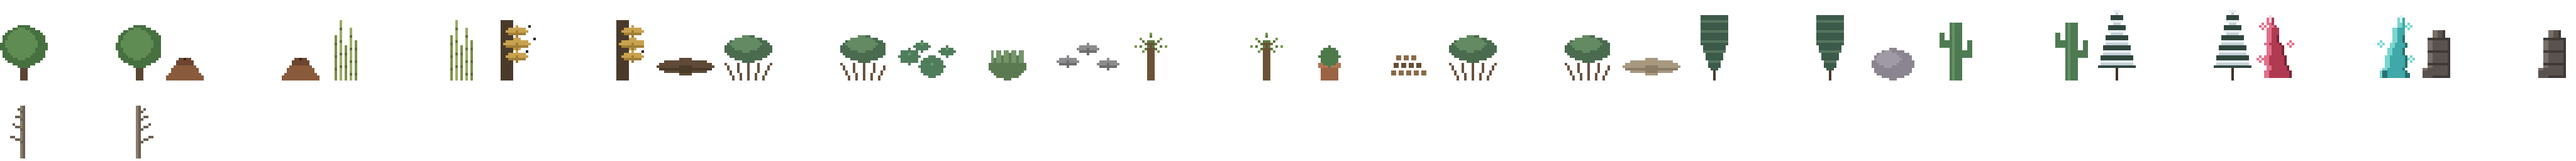
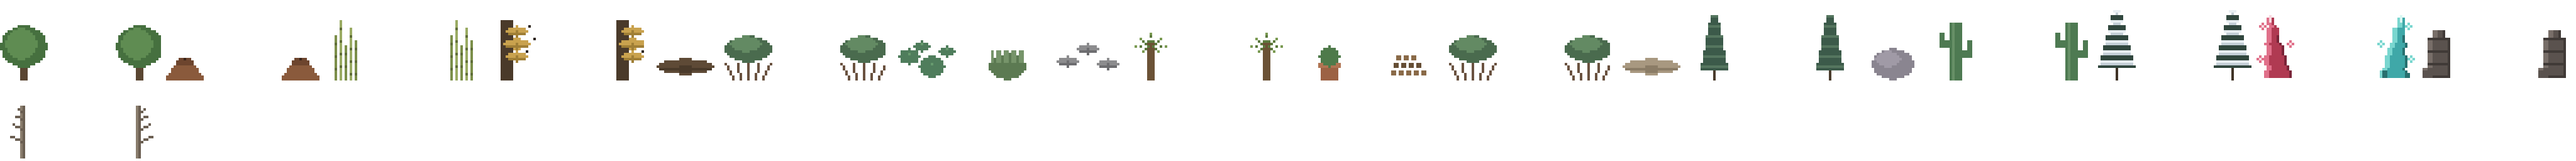
Turn the hill pine the right way up
It has been upside down since it was written. The loop started at the base
with a width of 1 and grew it as it climbed, so it drew a cone balanced on
its point: skirt at the crown, tip in the earth.

**Nothing caught it because nothing stood beside it.** On ochre ground and
scree a dark green wedge reads as *a tree* whichever way up it is, and the
feature sheet had no other conifer to disagree with. It became obvious the
moment the snow pine was drawn next to it -- the same lesson the palette
check keeps teaching, that a thing can look fine alone and wrong in
company.

Width is now a function of depth from the tip, which is the shape a conifer
has. Measured on the built sheet: crown 20, foot 44, where it was 44 and 20.

The guard measures the sheet rather than trusting the drawing code, for the
reason `frameTops` does -- the point is to catch the next edit. Inverting
the taper fails it with the tree named.

**Only the conifers are checked, and that is deliberate.** A palm *is*
wider at its crown, and so are the mangroves and the lily pads. I swept the
whole sheet first to be sure this was the only one genuinely inverted; a
rule that swept it in the test would have to grow exceptions for things
that are correctly top-heavy, and a list of exceptions is a worse guard
than a list of subjects.

Changed region(s): [[0.6562, 0.0938, 0.7188, 0.4375]]

diff --git a/test/frames.test.ts b/test/frames.test.ts
@@ -358,6 +358,64 @@ describe('the overdraw cannot swallow the traveller', () => {
   });
 });
 
+describe('a conifer is widest at its skirt', () => {
+  /**
+   * **The hill pine was drawn upside down for as long as it existed**, and shipped that way.
+   *
+   * Its loop started at the base with a width of 1 and grew as it climbed, so it drew a cone
+   * balanced on its point: skirt at the crown, tip in the earth. Nothing caught it because
+   * nothing stood beside it -- on ochre ground and scree a dark green wedge reads as *a tree*
+   * whichever way up it is. It became obvious the moment the snow pine was drawn next to it.
+   *
+   * Measured off the built sheet rather than trusted from the drawing code, which is the same
+   * reason `frameTops` measures the overdraw ceiling: the point is to catch the next edit.
+   *
+   * Only the conifers. A palm *is* wider at the crown -- fronds on a bare trunk -- and so are the
+   * mangroves and the lily pads, which is why this names its subjects rather than sweeping the
+   * sheet.
+   */
+  const widths = (frame: number): number[] => {
+    const { rows, width, stride } = decode('assets/features.png');
+    const cell = GRID;
+    const cols = width / cell;
+    const ox = (frame % cols) * cell;
+    const oy = Math.floor(frame / cols) * cell;
+    const out: number[] = [];
+    for (let y = 0; y < cell; y += 1) {
+      let lo = Infinity;
+      let hi = -1;
+      for (let x = 0; x < cell; x += 1) {
+        if (rows[(oy + y) * stride + (ox + x) * 4 + 3]! >= 128) {
+          if (x < lo) lo = x;
+          if (x > hi) hi = x;
+        }
+      }
+      out.push(hi < 0 ? 0 : hi - lo + 1);
+    }
+    return out;
+  };
+
+  it.each([
+    ['the hill pine', FEATURES.pine!.frames[0]!],
+    ['the snow pine', FEATURES.snowPine!.frames[0]!]
+  ])('%s is wider at the foot than at the crown', (what, frame) => {
+    const drawn = widths(frame)
+      .map((w, y) => [y, w] as const)
+      .filter(([, w]) => w > 0);
+    expect(drawn.length, `${what} drew nothing`).toBeGreaterThan(8);
+
+    // Drop the bottom fifth, which is the trunk rather than the canopy.
+    const last = drawn[drawn.length - 1]![0];
+    const span = last - drawn[0]![0];
+    const body = drawn.filter(([y]) => y <= last - span * 0.18);
+    const third = Math.floor(body.length / 3);
+    const crown = Math.max(...body.slice(0, third).map(([, w]) => w));
+    const skirt = Math.max(...body.slice(third * 2).map(([, w]) => w));
+
+    expect(skirt, `${what} is wider at the crown -- it is upside down`).toBeGreaterThan(crown);
+  });
+});
+
 describe('features may be tall because they stand aside', () => {
   // The trade this layer makes. Common overdraw stops at row 16 so it can never hide the player.
   // A tree cannot obey that and still be a tree, so it gets a different bargain: it may reach

diff --git a/tools/build-features.js b/tools/build-features.js
@@ -185,18 +185,33 @@ function tree(spec, side) {
 /** A narrow conifer: a stack of shrinking bands. */
 function pine(side) {
   const pixels = canvas();
-  const cx = CELL / 2 + side * OFFSET;
+  const cx = Math.round(CELL / 2 + side * OFFSET);
   const dark = hex('#3c5a4a');
   const light = hex('#55765f');
+
   fill(pixels, cx, CELL - 4, cx, CELL - 1, hex('#4a3b2c'));
-  let width = 1;
-  for (let y = CELL - 5; y >= 6; y -= 1) {
-    fill(pixels, cx - width, y, cx + width, y, (y % 4 === 0) ? light : dark);
-    if (y % 3 === 0) width += 1;
-    if (width > 5) width = 5;
+
+  // **This used to widen as it climbed**, drawing a cone balanced on its point -- a tree upside
+  // down. The old loop started at the base with `width = 1` and grew it as `y` decreased, so the
+  // skirt was at the crown and the tip was in the earth.
+  //
+  // It shipped and stayed because nothing stood beside it: on a hill of ochre ground and scree a
+  // dark green wedge reads as *a tree* whichever way up it is. It became obvious the moment the
+  // snow pine was drawn next to it, which is the same lesson the palette check keeps teaching --
+  // a thing looks fine alone and wrong in company.
+  //
+  // Width is now a function of depth from the tip, which is the shape a conifer has.
+  const top = 6;
+  const bottom = CELL - 5;
+  const height = bottom - top;
+  for (let y = top; y <= bottom; y += 1) {
+    const t = (y - top) / height;
+    const width = Math.round(1 + t * 4);
+    fill(pixels, cx - width, y, cx + width, y, (y - top) % 4 === 0 ? light : dark);
   }
   return pixels;
 }
+
 
 /**
  * A snow-laden pine: taller than the hill pine, and white on every upward face.
